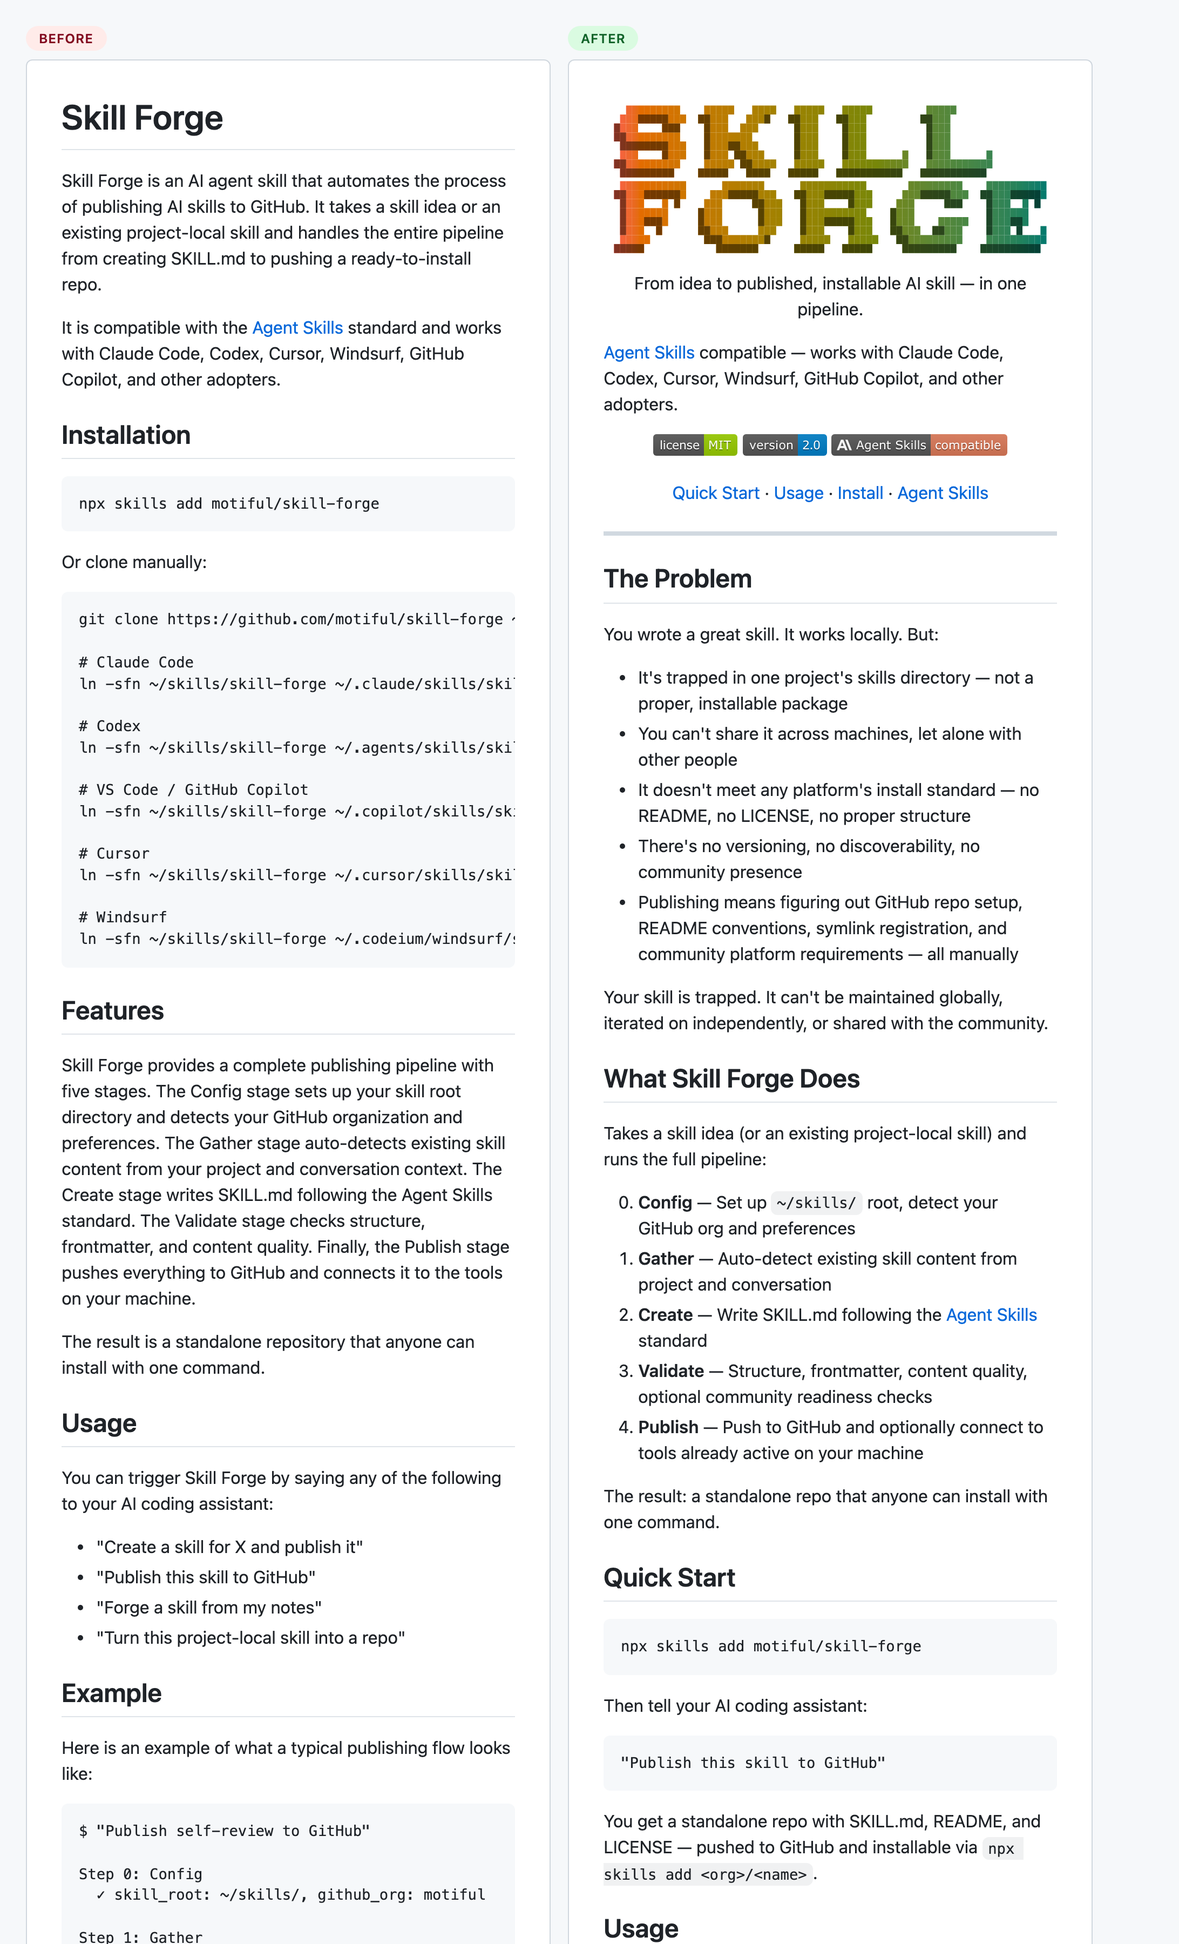
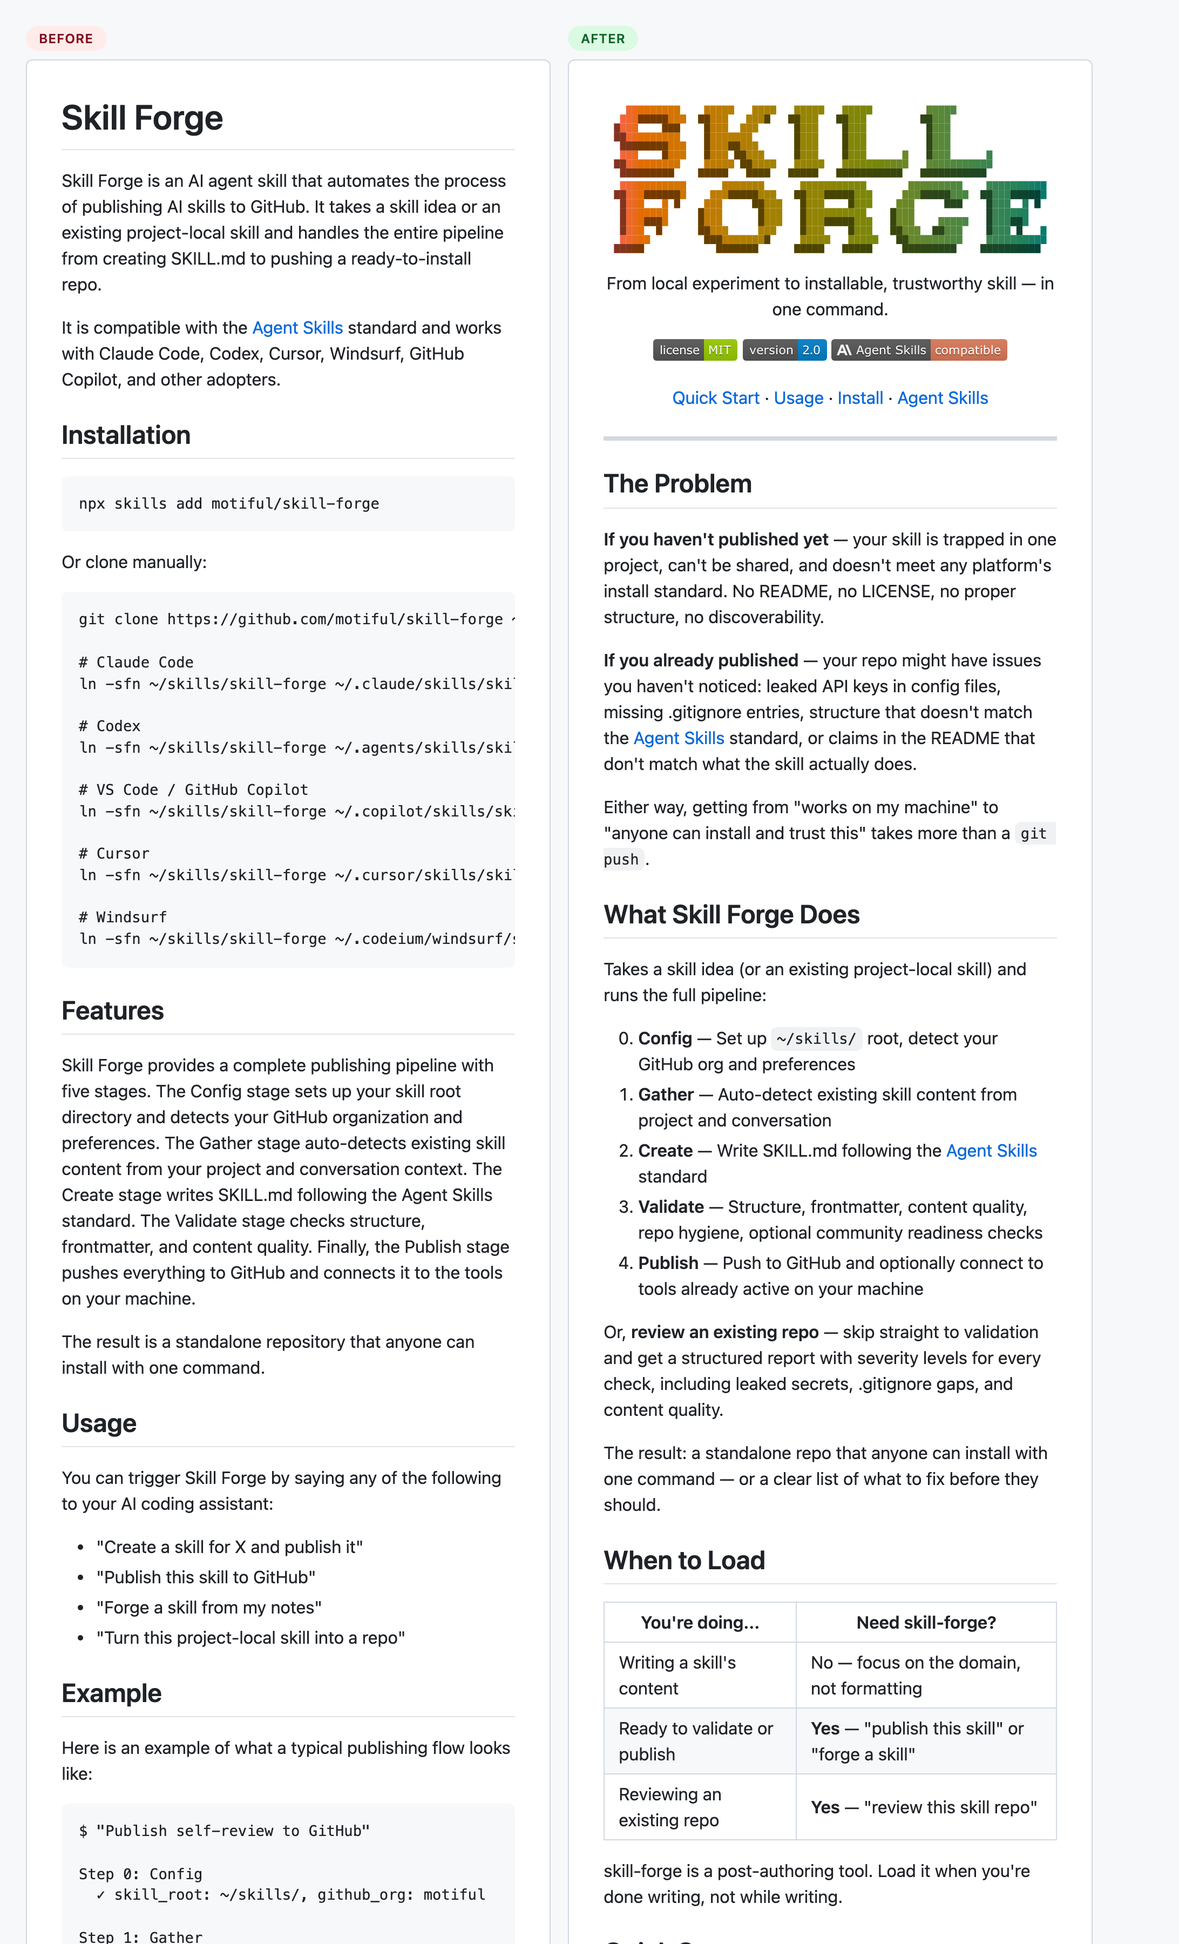
update: sync case study with latest skill-forge README
- Regenerate comparison PNG from updated before/after sources
- Rewrite case study to reflect new checklist (33/33 vs old 22/22):
  audience segmentation, "When to Load" table, review mode triggers,
  and User Perspective dimension

Changed region(s): [[0.4982, 0.1244, 0.9029, 1.0]]

diff --git a/docs/case-study-skill-forge.md b/docs/case-study-skill-forge.md
@@ -1,6 +1,6 @@
 # Case Study: Skill Forge README
 
-A before/after analysis of applying [readme-craft](https://github.com/motiful/readme-craft)'s 3-tier layout strategy and Quality Checklist to the Skill Forge README. The raw version represents a typical first-draft README with no visual hierarchy. The after version demonstrates a fully structured, GitHub-native layout scoring 22/22 on the checklist.
+A before/after analysis of applying [readme-craft](https://github.com/motiful/readme-craft)'s 3-tier layout strategy and Quality Checklist to the Skill Forge README. The raw version represents a typical first-draft README with no visual hierarchy. The after version demonstrates a fully structured, GitHub-native layout scoring 33/33 on the checklist.
 
 - **Before**: [`skill-forge-raw.md`](../.claude/examples/skill-forge-raw.md) -- beginner-style flat README
 - **After**: [`skill-forge/README.md`](https://github.com/motiful/skill-forge/blob/main/README.md) -- full 3-tier layout
@@ -92,16 +92,21 @@ A before/after analysis of applying [readme-craft](https://github.com/motiful/re
   <picture> logo (dark/light)
   <p> one-liner value proposition
 </div>
-  compatibility note
   badges (3, reference-style)
   quick links (Quick Start, Usage, Install, Agent Skills)
 ---
 
 ## The Problem                         <- Tier 2 starts
-  bullet list (5 pain points)
+  two audience segments (bold leads)
+  closing statement
 
 ## What Skill Forge Does
   numbered list (5 pipeline stages)
+  review mode paragraph
+  closing sentence
+
+## When to Load                        <- Tier 2
+  table (3 rows: situation → answer)
   closing sentence
 
 ## Quick Start                         <- Tier 2
@@ -110,11 +115,12 @@ A before/after analysis of applying [readme-craft](https://github.com/motiful/re
   result summary
 
 ## Usage                               <- Tier 2
-  bullet list (trigger phrases)
+  bullet list (trigger phrases, incl. review)
   <details> Example: Publishing self-review
 
 ## Install                             <- Tier 2
   code block (npx)
+  compatibility note
   <details> Manual registration
   <details> Prerequisites
   <details> Works Better With
@@ -135,7 +141,7 @@ A before/after analysis of applying [readme-craft](https://github.com/motiful/re
 |---------|----------|-------|
 | Logo (centered, `<picture>`) | Yes | Dark/light SVG variants, 480px width (wordmark) |
 | Project name (centered `<h1>`) | Yes | Rendered by the wordmark logo; no duplicate `<h1>` stacked |
-| One-liner as value proposition | Yes | "From idea to published, installable AI skill -- in one pipeline." |
+| One-liner as value proposition | Yes | "From local experiment to installable, trustworthy skill -- in one command." |
 | Badges | Yes | 3 badges (License, Version, Agent Skills), reference-style links |
 | Quick action links | Yes | Quick Start, Usage, Install, Agent Skills |
 
@@ -145,13 +151,14 @@ A before/after analysis of applying [readme-craft](https://github.com/motiful/re
 
 | Section | Present? | Notes |
 |---------|----------|-------|
-| Why / The Problem | Yes | 5 bullet points describing specific pain |
-| What Skill Forge Does | Yes | 5 numbered pipeline stages, scannable |
-| Quick Start | Yes | 2 code blocks + 1 summary line |
-| Usage | Yes | Trigger phrases as bullets, example folded in `<details>` |
+| Why / The Problem | Yes | Two audience segments with bold leads + closing statement |
+| What Skill Forge Does | Yes | 5 numbered pipeline stages + review mode, scannable |
+| When to Load | Yes | Table format for quick self-selection |
+| Quick Start | Yes | 2 code blocks + 1 summary sentence |
+| Usage | Yes | Trigger phrases as bullets (incl. review triggers), example folded in `<details>` |
 | Install | Yes | Primary `npx` command; manual method folded in `<details>` |
 
-**Verdict**: All required Tier 2 sections present with correct ordering. Code blocks and bullet lists used throughout. No section exceeds one screen.
+**Verdict**: All required Tier 2 sections present with correct ordering. Code blocks, bullet lists, and tables used throughout. No section exceeds one screen.
 
 ### Tier 3 Evaluation (Reference)
 
@@ -175,20 +182,22 @@ A before/after analysis of applying [readme-craft](https://github.com/motiful/re
 | # | Change | What | Why |
 |---|--------|------|-----|
 | 1 | Added Tier 1 hero block | Centered `<picture>` logo with dark/light variants, one-liner, badges, quick links | Establishes visual hierarchy and delivers the 3-second pitch |
-| 2 | Rewrote one-liner | From two technical paragraphs to "From idea to published, installable AI skill -- in one pipeline." | Value proposition answers "why should I care?" instead of describing implementation |
-| 3 | Added "The Problem" section | New section with 5 bullet points describing pain of trapped, unpublishable skills | Provides motivation before showing features; required by Tier 2 |
-| 4 | Converted Features paragraph to numbered list | Single prose paragraph became "What Skill Forge Does" with 5 numbered pipeline stages | Bullet/numbered lists scan faster than paragraphs |
-| 5 | Added Quick Start section | New section: `npx skills add` + trigger phrase + expected result | Fastest path to working example; was entirely missing |
-| 6 | Reordered sections | Moved Install after Quick Start and Usage; was previously the second section | readme-craft skill template places Usage before Install to prioritize understanding |
-| 7 | Folded manual install in `<details>` | Clone + symlink instructions moved from open section to collapsible block | Primary install is one line; verbose alternative belongs in Tier 3 |
-| 8 | Folded Prerequisites in `<details>` | Open H2 became collapsible block under Install | Reference material should not compete visually with Tier 2 |
-| 9 | Folded Skill Composition into Positioning | Separate H2 became part of a `<details>` block with editorial framing | Niche topic; does not warrant top-level heading |
-| 10 | Folded Related Skills into Works Better With | Separate H2 became `<details>` block with install commands | Reference material; follows skill template convention |
-| 11 | Folded Project Structure into What's Inside | Open H2 with bare tree became `<details>` with annotated tree | Reference material; annotations add value per line |
-| 12 | Added badges | License, Version, Agent Skills badges with reference-style URLs | Trust signals expected in Tier 1 |
-| 13 | Added Contributing section | New open H2 with brief invitation and GitHub link | Required by Completeness checklist |
-| 14 | Labeled example as sample flow | Added "This is a sample flow, not a transcript from one specific machine." | Example provenance rule: unverified examples must be labeled |
-| 15 | Added skill footer | "Forged with Skill Forge / Crafted with Readme Craft" | Required by Completeness checklist |
+| 2 | Rewrote one-liner | From two technical paragraphs to "From local experiment to installable, trustworthy skill -- in one command." | Value proposition answers "why should I care?" instead of describing implementation |
+| 3 | Added "The Problem" with audience segmentation | Two bold-lead segments: "If you haven't published yet" and "If you already published" | Lets both pre-publish and post-publish readers self-select into the right pain point |
+| 4 | Converted Features paragraph to numbered list | Single prose paragraph became "What Skill Forge Does" with 5 numbered pipeline stages + review mode | Bullet/numbered lists scan faster than paragraphs; review mode is a distinct capability |
+| 5 | Added "When to Load" section | Table with 3 scenarios mapping to yes/no + closing positioning sentence | Explicit activation guidance: skill-forge is post-authoring, not for writing content |
+| 6 | Added Quick Start section | New section: `npx skills add` + trigger phrase + expected result | Fastest path to working example; was entirely missing |
+| 7 | Reordered sections | Moved Install after Quick Start and Usage; was previously the second section | readme-craft skill template places Usage before Install to prioritize understanding |
+| 8 | Added review triggers to Usage | "Review this skill repo" and "Audit my skill before publishing" added to trigger list | Reflects the full capability surface, not just publishing |
+| 9 | Folded manual install in `<details>` | Clone + symlink instructions moved from open section to collapsible block | Primary install is one line; verbose alternative belongs in Tier 3 |
+| 10 | Folded Prerequisites in `<details>` | Open H2 became collapsible block under Install | Reference material should not compete visually with Tier 2 |
+| 11 | Folded Skill Composition into Positioning | Separate H2 became part of a `<details>` block with editorial framing | Niche topic; does not warrant top-level heading |
+| 12 | Folded Related Skills into Works Better With | Separate H2 became `<details>` block with install commands | Reference material; follows skill template convention |
+| 13 | Folded Project Structure into What's Inside | Open H2 with bare tree became `<details>` with annotated tree | Reference material; annotations add value per line |
+| 14 | Added badges | License, Version, Agent Skills badges with reference-style URLs | Trust signals expected in Tier 1 |
+| 15 | Added Contributing section | New open H2 with brief invitation and GitHub link | Required by Completeness checklist |
+| 16 | Labeled example as sample flow | Added "This is a sample flow, not a transcript from one specific machine." | Example provenance rule: unverified examples must be labeled |
+| 17 | Added skill footer | "Forged with Skill Forge / Crafted with Readme Craft" | Required by Completeness checklist |
 
 ---
 
@@ -206,7 +215,7 @@ A before/after analysis of applying [readme-craft](https://github.com/motiful/re
 | 4 | Tier 3 uses `<details>` | No | All reference sections are open H2 headings |
 | 5 | No Tier 3 content in Tier 1/2 area | No | Prerequisites, Skill Composition, Project Structure all sit as top-level H2 sections alongside core content |
 
-**Content (2 / 7)**
+**Content (2 / 8)**
 
 | # | Criterion | Pass? | Reason |
 |---|-----------|-------|--------|
@@ -217,16 +226,32 @@ A before/after analysis of applying [readme-craft](https://github.com/motiful/re
 | 5 | Features list 3-6 items | No | Single paragraph, not a list |
 | 6 | Example labeled as sample flow | No | Presented without provenance label |
 | 7 | No section exceeds one screen | Yes | Sections are short enough individually |
+| 8 | Deep reference split to docs/ if needed | N/A | Not long enough to require splitting |
 
-**Formatting (0 / 5)**
+**Formatting (0 / 10)**
 
 | # | Criterion | Pass? | Reason |
 |---|-----------|-------|--------|
 | 1 | Logo uses `<picture>` element | No | No logo |
-| 2 | Badges on 1-2 lines | No | No badges |
-| 3 | Badge URLs reference-style | No | No badges |
-| 4 | Code blocks specify language | No | Example block uses bare ``` with no language identifier |
-| 5 | Tables for structured data | No | Prerequisites listed as bullets; no tables anywhere |
+| 2 | Wordmark reads as single header line | N/A | No logo |
+| 3 | Showcase image placed correctly | N/A | No showcase image |
+| 4 | Badges on 1-2 lines, max 6 | No | No badges |
+| 5 | Badge URLs reference-style | No | No badges |
+| 6 | Code blocks specify language | No | Example block uses bare ``` with no language identifier |
+| 7 | Callouts genuinely necessary | N/A | No callouts |
+| 8 | No broken internal links | Yes | No internal links to break |
+| 9 | Tables for structured data | No | Prerequisites listed as bullets; no tables anywhere |
+| 10 | Mermaid/math/footnotes only when faster than prose | N/A | None used |
+
+**User Perspective (0 / 5)**
+
+| # | Criterion | Pass? | Reason |
+|---|-----------|-------|--------|
+| 1 | Self-selection in 10 seconds | No | No qualifying statement; reader must infer from description |
+| 2 | When to reach for it | No | No timing or activation guidance |
+| 3 | Audience segmentation | No | Single generic description for all readers |
+| 4 | Not-for boundary | No | No exclusions stated |
+| 5 | 30-second test | No | Cannot determine target user, problem fit, or next action within 30 seconds |
 
 **Completeness (1 / 5)**
 
@@ -238,7 +263,7 @@ A before/after analysis of applying [readme-craft](https://github.com/motiful/re
 | 4 | Usage example beyond Quick Start | No | No Quick Start to go beyond; Example section exists but serves as the only example |
 | 5 | Skill footer present | No | No footer |
 
-**Total: 3 / 22**
+**Total: 3 / 33**
 
 ---
 
@@ -250,31 +275,47 @@ A before/after analysis of applying [readme-craft](https://github.com/motiful/re
 |---|-----------|-------|--------|
 | 1 | Tier 1 elements present above first heading | Yes | Logo, one-liner, badges, quick links all above `---` |
 | 2 | Tier 1 is compact | Yes | Logo + one-liner + badges + links, nothing else |
-| 3 | Tier 2 sections: Why + Quick Start + Install | Yes | The Problem, Quick Start, Usage, Install all present |
+| 3 | Tier 2 sections: Why + Quick Start + Install | Yes | The Problem, When to Load, Quick Start, Usage, Install all present |
 | 4 | Tier 3 uses `<details>` | Yes | Manual registration, Prerequisites, Works Better With, Positioning, What's Inside all folded |
 | 5 | No Tier 3 content in Tier 1/2 area | Yes | All reference material is in collapsible blocks |
 
-**Content (7 / 7)**
+**Content (8 / 8)**
 
 | # | Criterion | Pass? | Reason |
 |---|-----------|-------|--------|
-| 1 | One-liner is value proposition | Yes | "From idea to published, installable AI skill -- in one pipeline." |
-| 2 | Why section describes specific pain point | Yes | 5 bullet points about trapped, unshareable skills |
+| 1 | One-liner is value proposition | Yes | "From local experiment to installable, trustworthy skill -- in one command." |
+| 2 | Why section describes specific pain point | Yes | Two audience segments with bold leads addressing pre-publish and post-publish pain |
 | 3 | Quick Start in under 5 lines | Yes | 2 code blocks + 1 summary sentence |
 | 4 | Install covers primary package manager | Yes | `npx skills add` as primary |
-| 5 | Features list 3-6 items | Yes | 5 numbered pipeline stages |
+| 5 | Features list 3-6 items | Yes | 5 numbered pipeline stages + review mode description |
 | 6 | Example labeled as sample flow | Yes | "This is a sample flow, not a transcript from one specific machine." |
 | 7 | No section exceeds one screen | Yes | Long content folded in `<details>` |
+| 8 | Deep reference split to docs/ if needed | N/A | Not long enough to require splitting |
 
-**Formatting (5 / 5)**
+**Formatting (10 / 10)**
 
 | # | Criterion | Pass? | Reason |
 |---|-----------|-------|--------|
 | 1 | Logo uses `<picture>` element | Yes | Dark/light SVG with `<picture>` wrapper |
-| 2 | Badges on 1-2 lines | Yes | 3 badges on 1 line |
-| 3 | Badge URLs reference-style | Yes | All badge links defined at bottom of file |
-| 4 | Code blocks specify language | Yes | `bash` and unmarked blocks are intentional (terminal output) |
-| 5 | Tables for structured data | Yes | N/A for this README (no config data requiring tables); no misuse of prose where tables belong |
+| 2 | Wordmark reads as single header line | Yes | Wide wordmark, no duplicate `<h1>` |
+| 3 | Showcase image placed correctly | N/A | No showcase image (not applicable for this project) |
+| 4 | Badges on 1-2 lines, max 6 | Yes | 3 badges on 1 line |
+| 5 | Badge URLs reference-style | Yes | All badge links defined at bottom of file |
+| 6 | Code blocks specify language | Yes | `bash` used; unmarked blocks are intentional (terminal output) |
+| 7 | Callouts genuinely necessary | N/A | No callouts used |
+| 8 | No broken internal links | Yes | `#quick-start`, `#usage`, `#install` all match headings |
+| 9 | Tables for structured data | Yes | "When to Load" uses a table for scenario mapping |
+| 10 | Mermaid/math/footnotes only when faster than prose | N/A | None used (correct — not needed) |
+
+**User Perspective (5 / 5)**
+
+| # | Criterion | Pass? | Reason |
+|---|-----------|-------|--------|
+| 1 | Self-selection in 10 seconds | Yes | Two bold-lead segments in The Problem let both pre-publish and post-publish users self-identify |
+| 2 | When to reach for it | Yes | "When to Load" table with explicit timing: "post-authoring tool. Load it when you're done writing, not while writing." |
+| 3 | Audience segmentation | Yes | The Problem addresses two distinct segments; When to Load maps three scenarios |
+| 4 | Not-for boundary | Yes | "When to Load" table explicitly shows "Writing a skill's content → No" |
+| 5 | 30-second test | Yes | (1) target user from Problem segments, (2) problem fit from pipeline description, (3) next action from Quick Start |
 
 **Completeness (5 / 5)**
 
@@ -286,7 +327,7 @@ A before/after analysis of applying [readme-craft](https://github.com/motiful/re
 | 4 | Usage example beyond Quick Start | Yes | Trigger phrases in Usage + detailed example in `<details>` |
 | 5 | Skill footer present | Yes | "Forged with Skill Forge / Crafted with Readme Craft" |
 
-**Total: 22 / 22**
+**Total: 33 / 33**
 
 ---
 
@@ -295,10 +336,11 @@ A before/after analysis of applying [readme-craft](https://github.com/motiful/re
 | Dimension | Before | After | Delta |
 |-----------|--------|-------|-------|
 | Structure (5) | 0 | 5 | +5 |
-| Content (7) | 2 | 7 | +5 |
-| Formatting (5) | 0 | 5 | +5 |
+| Content (8) | 2 | 8 | +6 |
+| Formatting (10) | 0 | 10 | +10 |
+| User Perspective (5) | 0 | 5 | +5 |
 | Completeness (5) | 1 | 5 | +4 |
-| **Total (22)** | **3** | **22** | **+19** |
+| **Total (33)** | **3** | **33** | **+30** |
 
 ---
 
@@ -310,6 +352,10 @@ A before/after analysis of applying [readme-craft](https://github.com/motiful/re
 
 3. **Section ordering matters more than section presence.** The raw README had Install as the second section, before the reader understood what the project does or why they would want it. Moving Install after Quick Start and Usage follows the principle of "understand before commit."
 
-4. **Collapsible blocks are a force multiplier.** Six open H2 sections (Install details, Prerequisites, Skill Composition, Related Skills, Project Structure, Example) became `<details>` blocks. This reduced the visual footprint of Tier 2 by roughly 60 lines without removing any information, letting committed users expand what they need.
+4. **Audience segmentation in The Problem section is a force multiplier.** The current version addresses two distinct reader segments with bold-lead paragraphs: "If you haven't published yet" and "If you already published." This lets readers self-select into the relevant pain point instead of reading a generic description and wondering if it applies to them.
 
-5. **Small provenance labels build trust.** The raw Example section presented output without context. Adding a single sentence -- "This is a sample flow, not a transcript from one specific machine" -- prevents readers from treating fabricated output as a verified guarantee. Low effort, high signal.
+5. **"When to Load" as a table solves the activation problem.** Many skills and tools struggle to communicate when the reader should reach for them. A simple table mapping scenarios to yes/no answers is faster to parse than prose and doubles as a not-for boundary (writing content → No).
+
+6. **Collapsible blocks are a force multiplier.** Six open H2 sections (Install details, Prerequisites, Skill Composition, Related Skills, Project Structure, Example) became `<details>` blocks. This reduced the visual footprint of Tier 2 by roughly 60 lines without removing any information, letting committed users expand what they need.
+
+7. **Small provenance labels build trust.** The raw Example section presented output without context. Adding a single sentence -- "This is a sample flow, not a transcript from one specific machine" -- prevents readers from treating fabricated output as a verified guarantee. Low effort, high signal.
